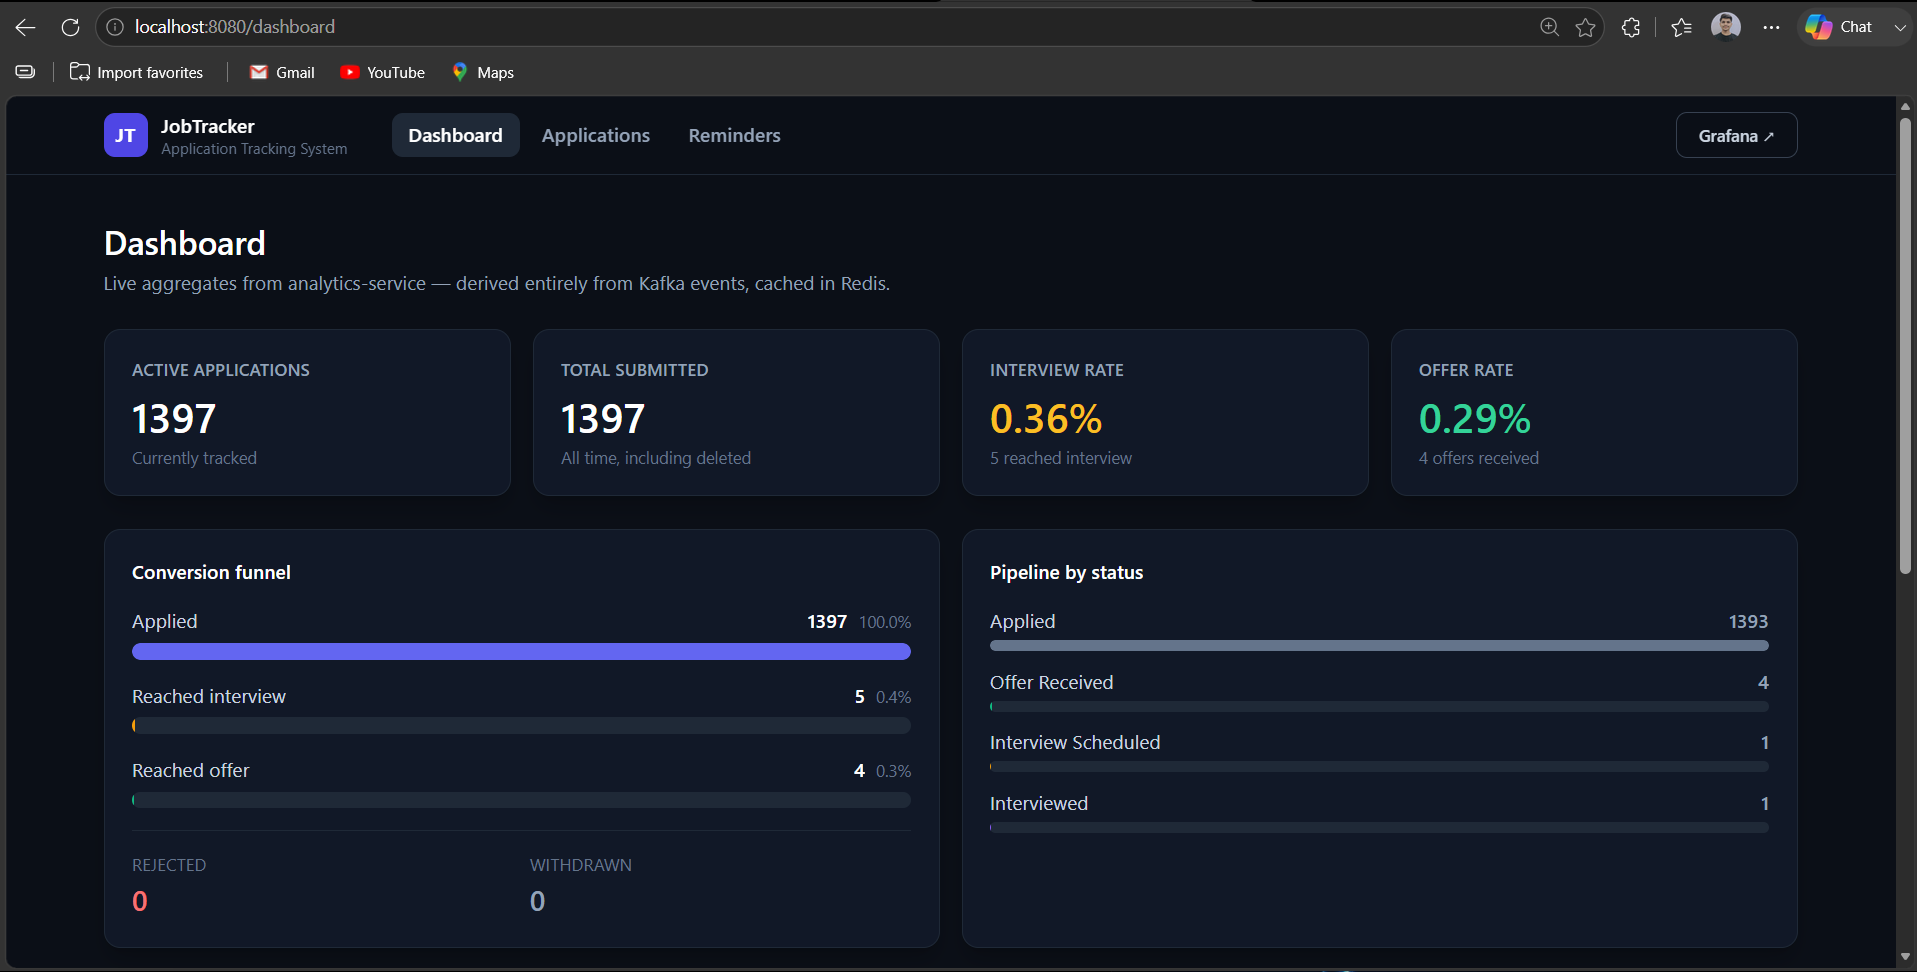
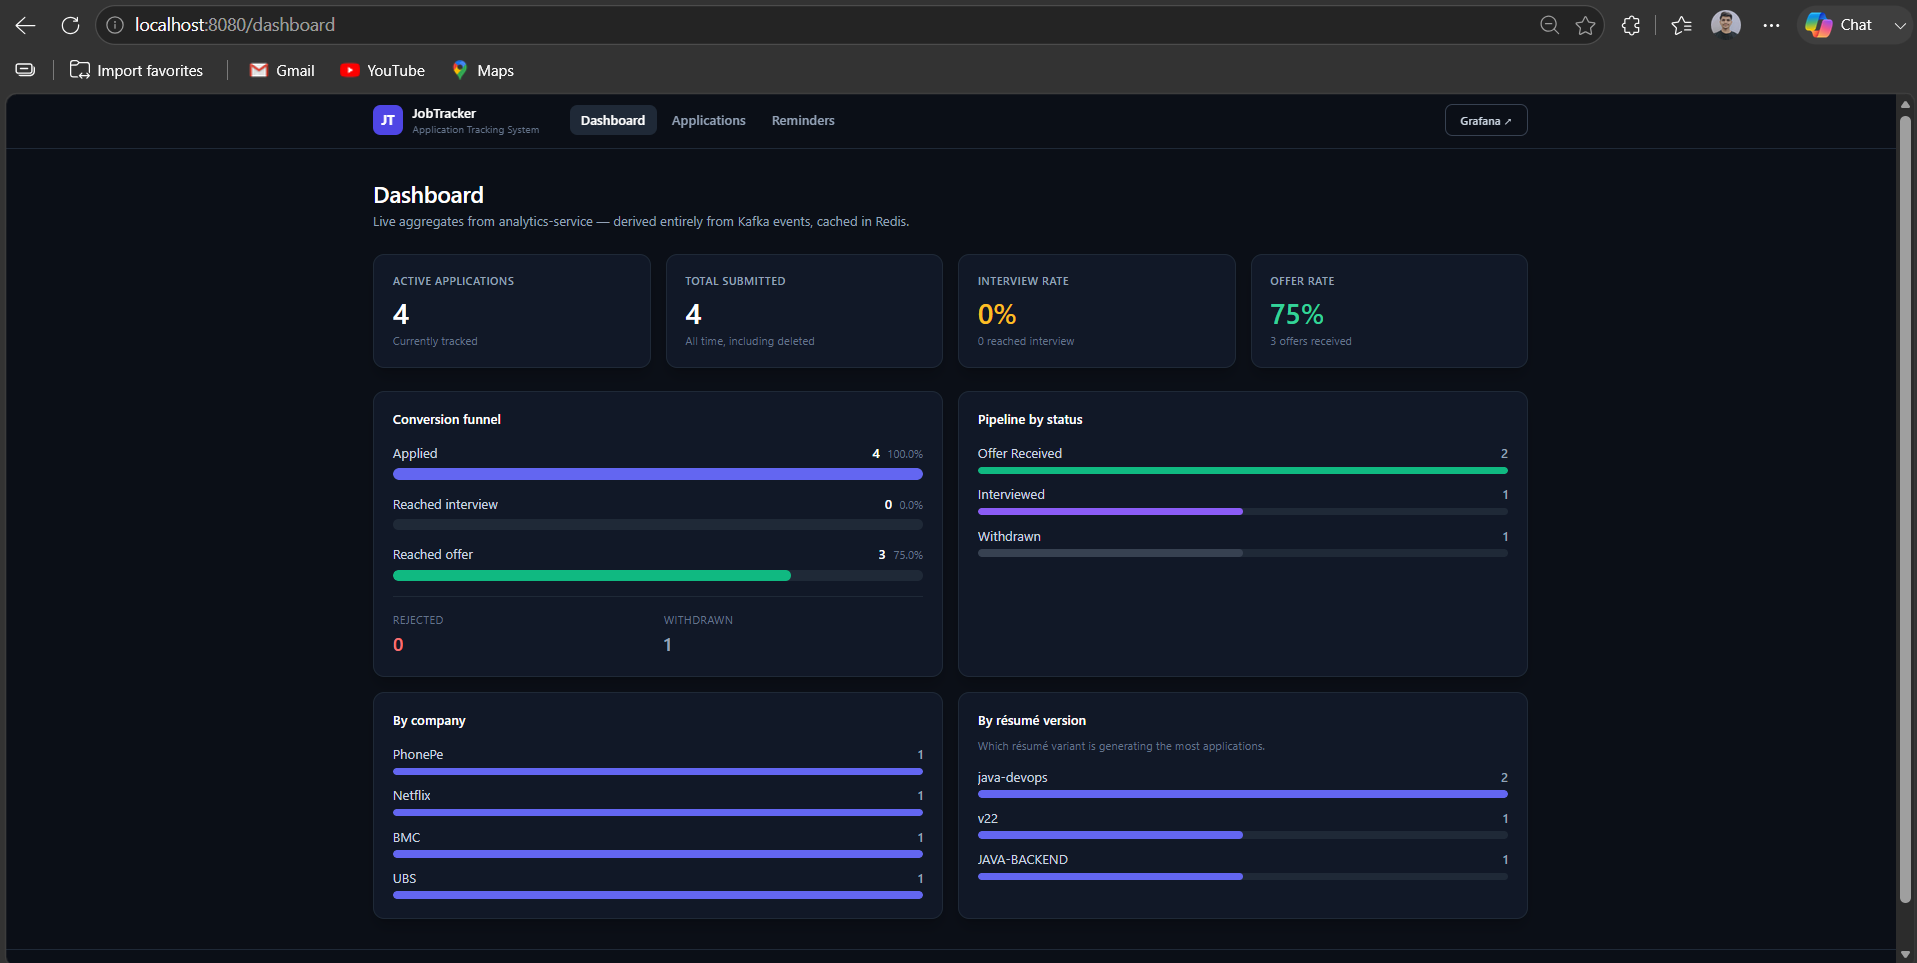
Add the Kubernetes Prometheus and Grafana screenshots
Both are the in-cluster versions rather than the Compose ones already shown
above: Prometheus discovering pods through annotations, and the same dashboard
served by Grafana running in the cluster.

diff --git a/README.md b/README.md
@@ -91,6 +91,13 @@ HPAs registered, and the observability stack deployed alongside the app.
 ![Kind deployment](docs/screenshots/k8s-deployed.png)
 <div align="center"><em>Kind — the full stack deployed to Kubernetes: pods, services, deployments, StatefulSets and HPAs</em></div>
 
+<table>
+  <tr>
+    <td width="50%"><img src="docs/screenshots/k8s-prometheus-targets.png" alt="Prometheus targets on Kubernetes"/><br/><em>Prometheus in-cluster — targets discovered from pod annotations, so replicas the HPA creates are scraped automatically</em></td>
+    <td width="50%"><img src="docs/screenshots/k8s-grafana-dashboard.png" alt="Grafana on Kubernetes"/><br/><em>The same dashboard, served from Grafana running inside the cluster</em></td>
+  </tr>
+</table>
+
 ## 🏗️ Architecture
 
 ```